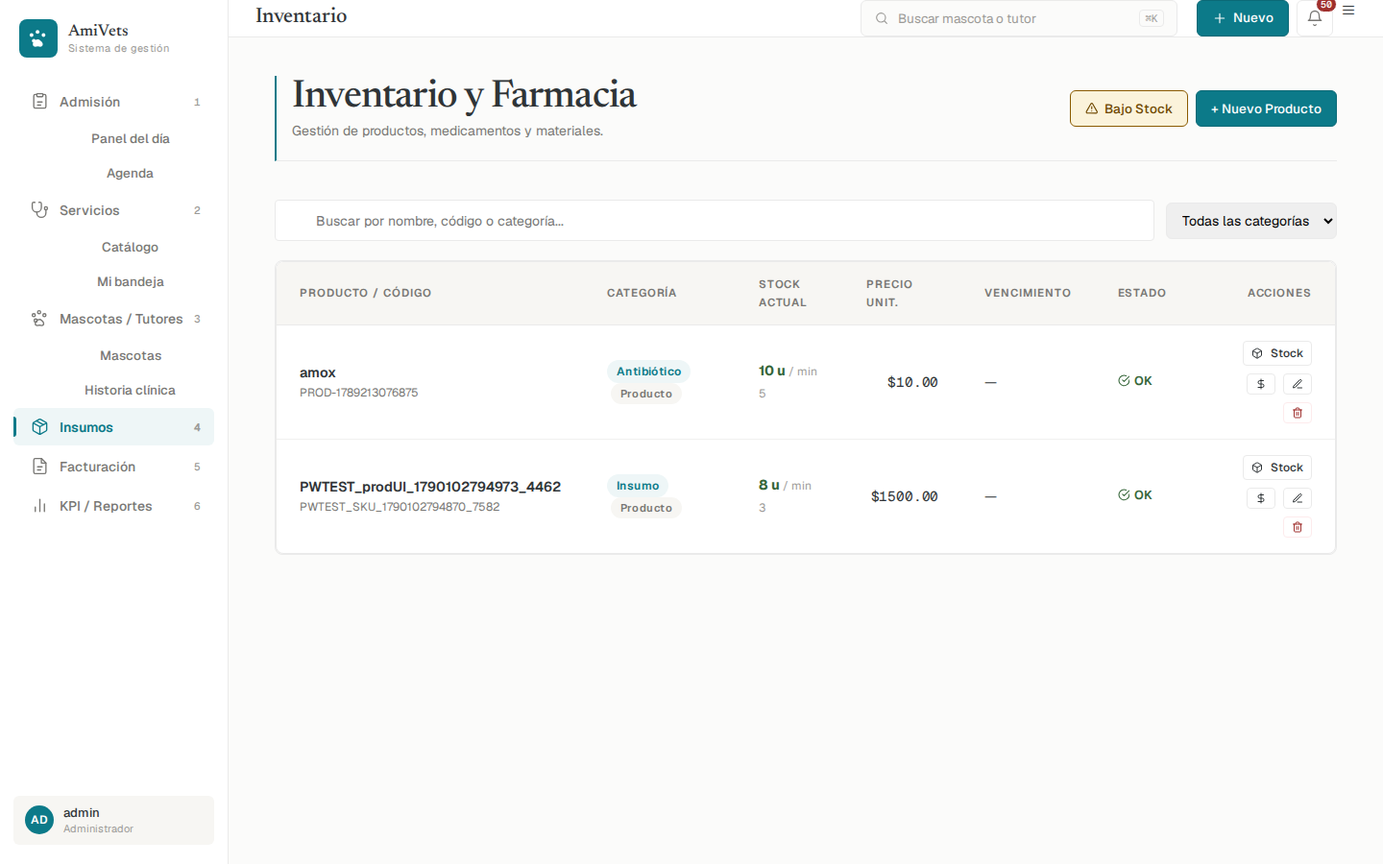
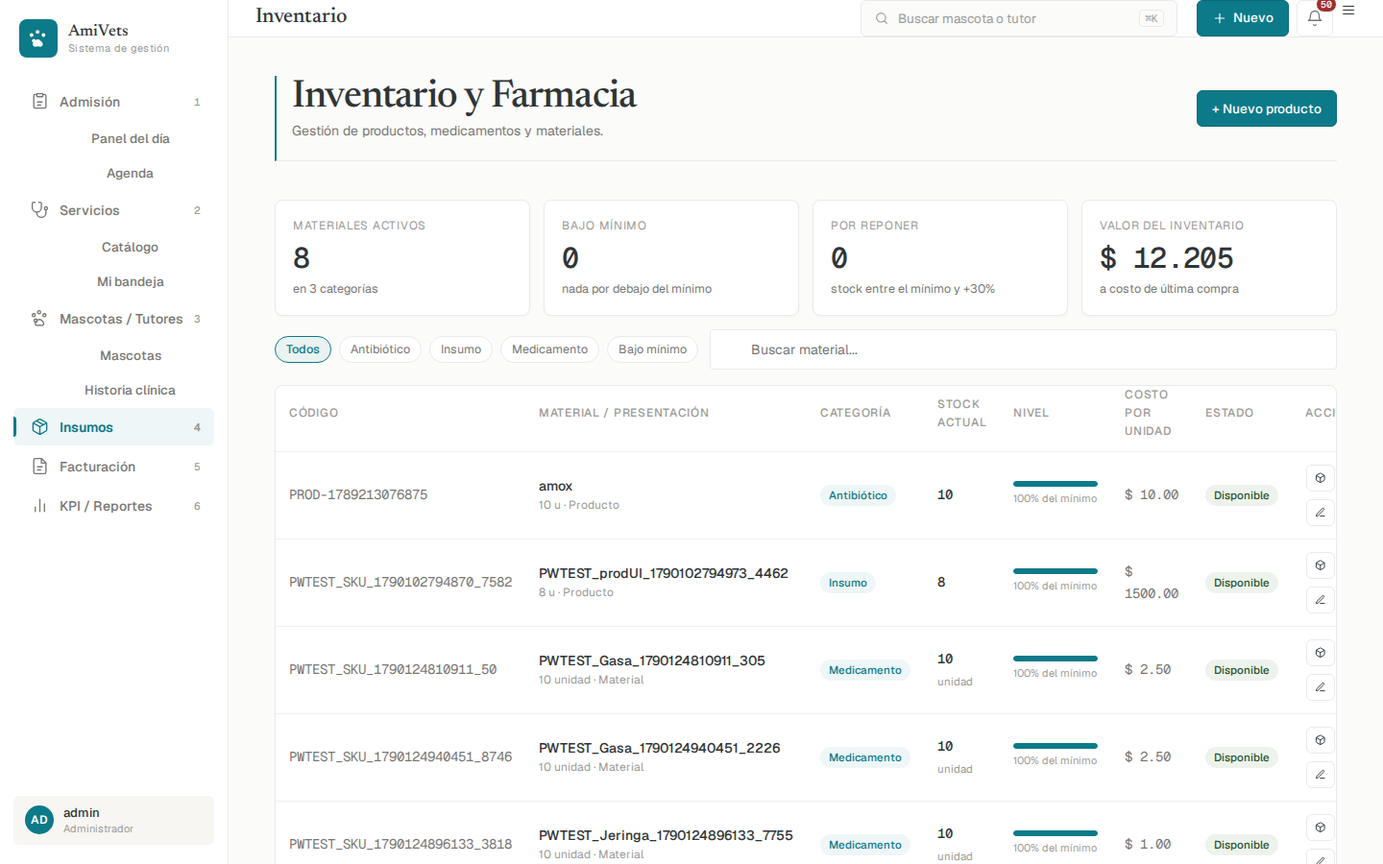
feat(inventario): fidelidad estructural real al boceto Insumos.html (KPI + pills + nivel)
Reemplaza la tabla plana de sec-inventario por la composición del
boceto: 4 KPI (materiales activos, bajo mínimo, por reponer, valor del
inventario), pills de categoría (generadas de las categorías reales
del inventario, no las ilustrativas del boceto -- mismo criterio que
/catalogo/categorias en Catálogo) con "Bajo mínimo" como pill
sintética, y una barra de "Nivel" por fila.

La barra de nivel muestra "% del mínimo" (stock_actual/stock_minimo),
no "% del máximo" como el boceto: InventarioResponse no tiene un campo
de stock objetivo/máximo, no se inventa uno (ver
docs/revision-integral-11.md, pendientes). "Por reponer" se define
como stock entre el mínimo y +30% (el propio boceto lo describe así:
"stock entre el mínimo y el 30%").

El botón "Bajo Stock" del header (app.js) duplicaba TODO el
renderizado de loadInventario inline, contra una tabla vieja de 7
columnas -- eliminado, reemplazado por la pill "Bajo mínimo" que
reusa el único renderer real.

e2e/gestion-inventario.spec.js: 5 tests existentes sin tocar (los
selectores por title= sobrevivieron al rediseño sin cambios). Test
nuevo: el KPI "Bajo mínimo" coincide con /alertas-stock y la pill
filtra la tabla por UI. 6/6 passed. inventario.spec.js,
inventario-fraccionado.spec.js e historial-precios.spec.js -- que
también tocan esta pantalla -- 30/31 passed (1 skip preexistente).

diff --git a/static/js/sections/inventario.js b/static/js/sections/inventario.js
@@ -49,16 +49,83 @@ if (document.readyState === 'loading') {
     wireMaterialToggles();
 }
 
+// Tarea 11 (revisión de bocetos): pill de categoría activa. '' = Todos;
+// '__bajo_minimo__' es la pill sintética que reemplaza al viejo botón
+// "Bajo Stock" (que duplicaba todo el renderizado en app.js contra una
+// tabla de 7 columnas que ya no existe).
+let categoriaActiva = '';
+let pillsWired = false;
+
+const esBajoMinimo = (p) => Number(p.stock_actual) <= Number(p.stock_minimo);
+// "Por reponer": entre el mínimo y un 30% por encima (boceto Insumos.html:
+// "stock entre el mínimo y el 30%"). No cuenta lo que ya está bajo mínimo.
+const esPorReponer = (p) => {
+    const actual = Number(p.stock_actual);
+    const minimo = Number(p.stock_minimo);
+    return actual > minimo && actual <= minimo * 1.3;
+};
+
+const renderPills = (productos) => {
+    const cont = document.getElementById('invCategoriaPills');
+    if (!cont) return;
+    const categorias = [...new Set(productos.map(p => p.categoria).filter(Boolean))].sort();
+    const pillHtml = (valor, etiqueta) =>
+        `<button type="button" class="rp-pill${valor === categoriaActiva ? ' rp-pill--active' : ''}" data-cat="${valor === '__bajo_minimo__' ? '__bajo_minimo__' : (valor || '')}">${etiqueta}</button>`;
+    cont.innerHTML = [
+        pillHtml('', 'Todos'),
+        ...categorias.map(c => pillHtml(c, c)),
+        pillHtml('__bajo_minimo__', 'Bajo mínimo'),
+    ].join('');
+    if (!pillsWired) {
+        cont.addEventListener('click', (e) => {
+            const btn = e.target.closest('.rp-pill');
+            if (!btn) return;
+            categoriaActiva = btn.dataset.cat;
+            loadInventario(document.getElementById('searchInventario')?.value || '');
+        });
+        pillsWired = true;
+    }
+};
+
+const renderKpis = (todos) => {
+    // GET /inventario/ ya filtra activo==True en el backend (sin parametro
+    // solo_activos) -- 'todos' acá ya es 'todos los activos', no hace falta
+    // volver a filtrar.
+    const activos = todos;
+    const categoriasActivas = new Set(activos.map(p => p.categoria).filter(Boolean));
+    const bajoMinimo = activos.filter(esBajoMinimo);
+    const porReponer = activos.filter(esPorReponer);
+    const valorInventario = activos.reduce((acc, p) => acc + Number(p.stock_actual) * (p.precio_unitario || 0), 0);
+
+    document.getElementById('invKpiActivos').textContent = activos.length.toLocaleString('es-AR');
+    document.getElementById('invKpiActivosSub').textContent = `en ${categoriasActivas.size} categoría${categoriasActivas.size === 1 ? '' : 's'}`;
+
+    document.getElementById('invKpiBajoMinimo').textContent = bajoMinimo.length.toLocaleString('es-AR');
+    document.getElementById('invKpiBajoMinimo').className = `rp-kpi-value${bajoMinimo.length > 0 ? ' rp-kpi-value--down' : ''}`;
+    document.getElementById('invKpiBajoMinimoSub').textContent = bajoMinimo.length === 1 ? bajoMinimo[0].nombre : (bajoMinimo.length === 0 ? 'nada por debajo del mínimo' : `${bajoMinimo.length} materiales`);
+
+    document.getElementById('invKpiPorReponer').textContent = porReponer.length.toLocaleString('es-AR');
+    document.getElementById('invKpiPorReponerSub').textContent = 'stock entre el mínimo y +30%';
+
+    document.getElementById('invKpiValor').textContent = `$ ${valorInventario.toLocaleString('es-AR', { maximumFractionDigits: 0 })}`;
+};
+
 export const loadInventario = async (filtro = '') => {
     const tbody = document.getElementById('inventarioTableBody');
-    tbody.innerHTML = '<tr><td colspan="7" style="text-align: center;">Cargando...</td></tr>';
+    tbody.innerHTML = '<tr><td colspan="8" style="text-align: center;">Cargando...</td></tr>';
 
     try {
-        const categoriaFiltro = document.getElementById('filtroInventarioCategoria')?.value || '';
-        const url = `/inventario/?limit=200${categoriaFiltro ? `&categoria=${encodeURIComponent(categoriaFiltro)}` : ''}`;
-        let productos = await fetchAPI(url);
+        const todos = await fetchAPI('/inventario/?limit=2000');
+        renderKpis(todos);
+        renderPills(todos);
 
-        // Filtro de texto local
+        let productos = todos;
+        if (categoriaActiva === '__bajo_minimo__') {
+            productos = productos.filter(esBajoMinimo);
+        } else if (categoriaActiva) {
+            productos = productos.filter(p => p.categoria === categoriaActiva);
+        }
+
         if (filtro) {
             const q = filtro.toLowerCase();
             productos = productos.filter(p =>
@@ -69,56 +136,58 @@ export const loadInventario = async (filtro = '') => {
         }
 
         if (productos.length === 0) {
-            tbody.innerHTML = '<tr><td colspan="7" style="text-align: center; padding: 2rem; color: var(--text-muted);">No se encontraron productos.</td></tr>';
+            tbody.innerHTML = '<tr><td colspan="8" style="text-align: center; padding: 2rem; color: var(--text-muted);">No se encontraron materiales.</td></tr>';
             return;
         }
 
         tbody.innerHTML = productos.map(p => {
             const stockActual = Number(p.stock_actual);
             const stockMinimo = Number(p.stock_minimo);
-            const bajStock = stockActual <= stockMinimo;
-            const stockColor = (bajStock || stockActual < 0) ? 'var(--accent)' : 'var(--secondary)';
-            const vencimiento = p.fecha_vencimiento ? new Date(p.fecha_vencimiento).toLocaleDateString() : '—';
-            const vencimientoStyle = p.fecha_vencimiento && new Date(p.fecha_vencimiento) < new Date() ? 'color:var(--accent); font-weight:700;' : '';
-            const tipoPill = p.tipo_item === 'MATERIAL'
-                ? `<span class="badge" style="background:var(--secondary-subtle); color:var(--secondary-dark); font-size:0.7rem; margin-left:4px;">Material</span>`
-                : `<span class="badge" style="background:var(--surface-hover); color:var(--text-secondary); font-size:0.7rem; margin-left:4px;">Producto</span>`;
+            const bajStock = esBajoMinimo(p);
+            const vencimiento = p.fecha_vencimiento ? new Date(p.fecha_vencimiento).toLocaleDateString() : null;
+            const vencido = vencimiento && new Date(p.fecha_vencimiento) < new Date();
+            // % sobre el mínimo (no "% del máximo" del boceto: no hay campo
+            // de stock objetivo/máximo en el modelo). Se tapa en 100% para
+            // que la barra no se salga del contenedor con stock muy alto.
+            const pctMinimo = stockMinimo > 0 ? Math.min(100, (stockActual / stockMinimo) * 100) : (stockActual > 0 ? 100 : 0);
+            const barColor = bajStock ? 'var(--accent)' : (esPorReponer(p) ? 'var(--warning)' : 'var(--primary)');
+            const tipoPill = p.tipo_item === 'MATERIAL' ? 'Material' : 'Producto';
             return `
             <tr>
+                <td class="rp-num" style="color:var(--text-secondary);">${p.codigo}</td>
                 <td>
-                    <div style="font-weight:600; color:var(--text-primary);">${p.nombre}</div>
-                    <div style="font-size:0.75rem; color:var(--text-secondary);">${p.codigo}</div>
+                    <div style="font-weight:500; color:var(--text-primary);">${p.nombre}</div>
+                    <div style="font-size:12px; color:var(--text-muted);">${formatStockDisplay(p)} · ${tipoPill}${vencimiento ? ` · vence ${vencimiento}` : ''}</div>
                 </td>
+                <td><span class="av-pill">${p.categoria || '—'}</span></td>
+                <td class="rp-num" style="font-weight:500;">${fmtNum(stockActual)} <span style="font-size:11.5px; color:var(--text-muted); font-weight:400;">${p.unidad_medida || ''}</span></td>
                 <td>
-                    <span class="badge" style="background:var(--primary-subtle); color:var(--primary); font-size:0.75rem;">${p.categoria || '—'}</span>
-                    ${tipoPill}
+                    <div class="rp-progress" style="width:88px;"><div class="rp-progress-fill" style="width:${pctMinimo.toFixed(0)}%; background:${barColor};"></div></div>
+                    <span style="font-size:11px; color:var(--text-muted);">${pctMinimo.toFixed(0)}% del mínimo</span>
                 </td>
-                <td style="font-weight:700; color:${stockColor}">
-                    ${formatStockDisplay(p)}
-                    <span style="font-size:0.75rem; font-weight:400; color:var(--text-muted);">/ min ${fmtNum(p.stock_minimo)}</span>
-                </td>
-                <td class="num">$${(p.precio_unitario || 0).toFixed(2)}</td>
-                <td style="${vencimientoStyle}">${vencimiento}</td>
+                <td class="rp-num" style="color:var(--text-secondary);">$ ${(p.precio_unitario || 0).toFixed(2)}</td>
                 <td>${bajStock
-                    ? `<span class="status-pill status-pill--warn">${ICONS.alertTriangle} Bajo</span>`
-                    : `<span class="status-pill status-pill--ok">${ICONS.checkCircle} OK</span>`}</td>
+                    ? `<span class="av-pill av-pill--warn">Bajo mínimo</span>`
+                    : (vencido ? `<span class="av-pill av-pill--warn">Vencido</span>` : `<span class="av-pill av-pill--ok">Disponible</span>`)}</td>
                 <td style="text-align:right;">
                     <div class="row-actions">
-                        <button class="btn-secondary btn-sm" onclick="abrirMovimientoStock(${p.id}, '${p.nombre.replace(/'/g, "\\'")}', ${stockActual})" title="Ajustar stock" aria-label="Ajustar stock" style="font-size:0.75rem; padding:4px 8px;">${ICONS.box} Stock</button>
-                        <button class="btn-secondary btn-sm btn-historial-precios" onclick="abrirHistorialProducto(${p.id}, '${p.nombre.replace(/'/g, "\\'")}')" title="Historial de precios" aria-label="Historial de precios" style="font-size:0.75rem; padding:4px 8px;">${ICONS.dollar}</button>
-                        <button class="btn-secondary btn-sm" onclick="abrirEditarProducto(${p.id})" title="Editar" aria-label="Editar" style="font-size:0.75rem; padding:4px 8px;">${ICONS.edit}</button>
-                        <button class="btn-secondary btn-sm btn-row-danger" onclick="confirmarEliminarProducto(${p.id}, '${p.nombre.replace(/'/g, "\\'")}')" title="Desactivar" aria-label="Desactivar" style="font-size:0.75rem; padding:4px 8px;">${ICONS.trash}</button>
+                        <button class="av-btn" style="height:28px; padding:0 8px; font-size:11.5px;" onclick="abrirMovimientoStock(${p.id}, '${p.nombre.replace(/'/g, "\\'")}', ${stockActual})" title="Ajustar stock" aria-label="Ajustar stock">${ICONS.box}</button>
+                        <button class="av-btn btn-historial-precios" style="height:28px; padding:0 8px; font-size:11.5px;" onclick="abrirHistorialProducto(${p.id}, '${p.nombre.replace(/'/g, "\\'")}')" title="Historial de precios" aria-label="Historial de precios">${ICONS.dollar}</button>
+                        <button class="av-btn" style="height:28px; padding:0 8px; font-size:11.5px;" onclick="abrirEditarProducto(${p.id})" title="Editar" aria-label="Editar">${ICONS.edit}</button>
+                        <button class="av-btn" style="height:28px; padding:0 8px; font-size:11.5px; color:var(--accent); border-color:var(--accent);" onclick="confirmarEliminarProducto(${p.id}, '${p.nombre.replace(/'/g, "\\'")}')" title="Desactivar" aria-label="Desactivar">${ICONS.trash}</button>
                     </div>
                 </td>
             </tr>`;
         }).join('');
 
-        // Actualizar badge (comparación numérica decimal-safe)
-        const lowStock = productos.filter(p => Number(p.stock_actual) <= Number(p.stock_minimo)).length;
-        document.getElementById('badgeStock').textContent = lowStock > 0 ? lowStock : '';
+        const badge = document.getElementById('badgeStock');
+        if (badge) {
+            const lowStock = todos.filter(p => p.activo && esBajoMinimo(p)).length;
+            badge.textContent = lowStock > 0 ? lowStock : '';
+        }
 
     } catch (error) {
-        tbody.innerHTML = `<tr><td colspan="7" style="text-align: center; color:var(--accent);">Error: ${error.message}</td></tr>`;
+        tbody.innerHTML = `<tr><td colspan="8" style="text-align: center; color:var(--accent);">Error: ${error.message}</td></tr>`;
     }
 };
 

diff --git a/static/templates/index.html b/static/templates/index.html
@@ -1579,6 +1579,16 @@
             </section>
 
             <!-- Content Area: Inventario -->
+            <!-- sec-inventario — Tarea 11 (revisión de bocetos): reescrita
+                 fiel a docs/diseno/pantallas/Insumos.html (KPI + pills de
+                 categoría + nivel de stock). Las categorías del boceto
+                 (Medicamentos/Consumibles/...) son ilustrativas -- las
+                 pills acá salen de las categorías reales del inventario
+                 (igual criterio que /catalogo/categorias en Catálogo), no
+                 se hardcodean. La barra "Nivel" muestra % sobre el stock
+                 MÍNIMO, no un "% del máximo" -- InventarioResponse no tiene
+                 un campo de stock máximo/objetivo (ver
+                 docs/revision-integral-11.md, pendientes). -->
             <section id="sec-inventario" class="content-area spa-section">
                 <div class="content-header" style="flex-wrap:wrap; gap:0.75rem;">
                     <div>
@@ -1586,44 +1596,56 @@
                         <p style="color:var(--text-secondary); font-size:0.875rem; margin:0;">Gestión de productos, medicamentos y materiales.</p>
                     </div>
                     <div style="display:flex; gap:0.5rem; flex-wrap:wrap; align-items:center;">
-                        <button class="av-btn" id="btnAlertasStock" style="color:var(--warning-dark); border-color:var(--warning); background:var(--warning-subtle);"><svg class="inline-icon" viewBox="0 0 24 24" fill="none" stroke="currentColor" stroke-width="2" stroke-linecap="round" stroke-linejoin="round" aria-hidden="true"><path d="m21.73 18-8-14a2 2 0 0 0-3.48 0l-8 14A2 2 0 0 0 4 21h16a2 2 0 0 0 1.73-3Z"/><path d="M12 9v4"/><path d="M12 17h.01"/></svg> Bajo Stock</button>
-                        <button class="av-btn av-btn--primary" id="btnNuevoProducto">+ Nuevo Producto</button>
+                        <button class="av-btn av-btn--primary" id="btnNuevoProducto">+ Nuevo producto</button>
                     </div>
                 </div>
 
-                <!-- Barra de búsqueda y filtro -->
-                <div style="display:flex; gap:0.75rem; align-items:center; margin-bottom:1.25rem; flex-wrap:wrap;">
-                    <input type="text" id="searchInventario" placeholder="Buscar por nombre, código o categoría..."
-                        class="search-input" style="flex:1; min-width:200px; margin:0;">
-                    <select id="filtroInventarioCategoria"
-                        style="padding:0.5rem 0.75rem; border:1px solid var(--border); border-radius:var(--radius-md); font-size:0.875rem; min-width:160px;">
-                        <option value="">Todas las categorías</option>
-                        <option value="Antibiótico">Antibiótico</option>
-                        <option value="Antiinflamatorio">Antiinflamatorio</option>
-                        <option value="Vacuna">Vacuna</option>
-                        <option value="Desparasitante">Desparasitante</option>
-                        <option value="Insumo">Insumo</option>
-                        <option value="Alimento">Alimento</option>
-                        <option value="Laboratorio">Laboratorio</option>
-                        <option value="Imagen">Imagen</option>
-                    </select>
+                <div class="rp-kpi-grid" id="invKpis" style="margin-bottom:14px;">
+                    <div class="rp-kpi-card">
+                        <span class="rp-kpi-label">Materiales activos</span>
+                        <span class="rp-kpi-value" id="invKpiActivos">—</span>
+                        <span class="rp-kpi-delta" id="invKpiActivosSub"></span>
+                    </div>
+                    <div class="rp-kpi-card">
+                        <span class="rp-kpi-label">Bajo mínimo</span>
+                        <span class="rp-kpi-value" id="invKpiBajoMinimo">—</span>
+                        <span class="rp-kpi-delta" id="invKpiBajoMinimoSub"></span>
+                    </div>
+                    <div class="rp-kpi-card">
+                        <span class="rp-kpi-label">Por reponer</span>
+                        <span class="rp-kpi-value" id="invKpiPorReponer">—</span>
+                        <span class="rp-kpi-delta" id="invKpiPorReponerSub"></span>
+                    </div>
+                    <div class="rp-kpi-card">
+                        <span class="rp-kpi-label">Valor del inventario</span>
+                        <span class="rp-kpi-value" id="invKpiValor">—</span>
+                        <span class="rp-kpi-delta">a costo de última compra</span>
+                    </div>
                 </div>
 
-                <div style="overflow-x:auto; border-radius:var(--radius-lg); border:1px solid var(--border);">
-                    <table class="consultas-table" style="margin:0;">
+                <div class="cat-toolbar">
+                    <div class="rp-pill-group" id="invCategoriaPills">
+                        <button type="button" class="rp-pill rp-pill--active" data-cat="">Todos</button>
+                    </div>
+                    <input type="text" id="searchInventario" placeholder="Buscar material..." class="search-input" style="flex:1; min-width:180px; margin:0;">
+                </div>
+
+                <div style="overflow-x:auto; border-radius:8px; border:1px solid var(--border); box-shadow:0 1px 2px rgba(0,0,0,0.03);">
+                    <table class="rp-table" style="margin:0; background:var(--surface);">
                         <thead>
                             <tr>
-                                <th>Producto / Código</th>
+                                <th>Código</th>
+                                <th>Material / Presentación</th>
                                 <th>Categoría</th>
-                                <th>Stock Actual</th>
-                                <th>Precio Unit.</th>
-                                <th>Vencimiento</th>
+                                <th>Stock actual</th>
+                                <th>Nivel</th>
+                                <th>Costo por unidad</th>
                                 <th>Estado</th>
                                 <th style="text-align:right;">Acciones</th>
                             </tr>
                         </thead>
                         <tbody id="inventarioTableBody">
-                            <tr><td colspan="7" style="text-align:center; padding:2rem; color:var(--text-muted);">Cargando inventario...</td></tr>
+                            <tr><td colspan="8" style="text-align:center; padding:2rem; color:var(--text-muted);">Cargando inventario...</td></tr>
                         </tbody>
                     </table>
                 </div>

diff --git a/static/js/app.js b/static/js/app.js
@@ -13,7 +13,7 @@
 // cargado antes (expone window.logout, usado por core/api.js).
 
 import { fetchAPI } from './core/api.js';
-import { ICONS, openModal, closeModal, debounce, showNotification } from './core/ui.js';
+import { openModal, closeModal, debounce, showNotification } from './core/ui.js';
 import { initSearchableSelect } from './core/select.js';
 import { initSession } from './core/session.js';
 import * as router from './core/router.js';
@@ -202,39 +202,10 @@ document.addEventListener('DOMContentLoaded', () => {
     document.getElementById('formMovimientoStock')?.addEventListener('submit', inventario.handleMovimientoStockSubmit);
     document.getElementById('btnNuevoProducto')?.addEventListener('click', () => openModal('modalProducto'));
     document.getElementById('searchInventario')?.addEventListener('input', debounce((e) => inventario.loadInventario(e.target.value), 300));
-    document.getElementById('filtroInventarioCategoria')?.addEventListener('change', () => inventario.loadInventario(document.getElementById('searchInventario')?.value || ''));
-    document.getElementById('btnAlertasStock')?.addEventListener('click', async () => {
-        const tbody = document.getElementById('inventarioTableBody');
-        tbody.innerHTML = '<tr><td colspan="7" style="text-align:center;">Cargando alertas de stock...</td></tr>';
-        try {
-            const productos = await fetchAPI('/inventario/?bajo_stock=true&limit=200');
-            if (productos.length === 0) {
-                tbody.innerHTML = '<tr><td colspan="7" style="text-align:center; color:var(--secondary); padding:2rem;">Todo el inventario está por encima del stock mínimo.</td></tr>';
-                return;
-            }
-            // Reusar el renderizado de loadInventario temporalmente
-            const bajStock = true;
-            tbody.innerHTML = productos.map(p => {
-                const vencimiento = p.fecha_vencimiento ? new Date(p.fecha_vencimiento).toLocaleDateString() : '—';
-                const vencimientoStyle = p.fecha_vencimiento && new Date(p.fecha_vencimiento) < new Date() ? 'color:var(--accent); font-weight:700;' : '';
-                return `
-                <tr style="background:var(--accent-subtle);">
-                    <td>
-                        <div style="font-weight:600; color:var(--text-primary);">${p.nombre}</div>
-                        <div style="font-size:0.75rem; color:var(--text-secondary);">${p.codigo}</div>
-                    </td>
-                    <td><span class="badge" style="background:var(--primary-subtle); color:var(--primary); font-size:0.75rem;">${p.categoria || '—'}</span></td>
-                    <td style="font-weight:700; color:var(--accent);">${p.stock_actual} <span style="font-size:0.75rem; font-weight:400; color:var(--text-muted);">/ min ${p.stock_minimo}</span></td>
-                    <td class="num">$${(p.precio_unitario || 0).toFixed(2)}</td>
-                    <td style="${vencimientoStyle}">${vencimiento}</td>
-                    <td><span class="status-pill status-pill--warn">${ICONS.alertTriangle} BAJO</span></td>
-                    <td style="text-align:right;">
-                        <button class="btn-secondary btn-sm" onclick="abrirMovimientoStock(${p.id}, '${p.nombre.replace(/'/g, "\\'")}', ${p.stock_actual})" style="font-size:0.75rem; padding:4px 8px;">${ICONS.box} Reponer</button>
-                    </td>
-                </tr>`;
-            }).join('');
-        } catch (err) { alert('Error: ' + err.message); }
-    });
+    // Tarea 11: el botón "Bajo Stock" (que duplicaba todo el renderizado de
+    // loadInventario inline, contra una tabla vieja de 7 columnas) se
+    // reemplaza por la pill "Bajo mínimo" de la propia sec-inventario --
+    // mismo filtro, un solo renderer (inventario.js::loadInventario).
     document.getElementById('btnShowModalUser')?.addEventListener('click', () => openModal('modalNuevoUsuario'));
     document.getElementById('formNuevoUsuario')?.addEventListener('submit', usuarios.handleNuevoUsuarioSubmit);
     document.getElementById('formEditarUsuario')?.addEventListener('submit', usuarios.handleEditarUsuarioSubmit);

diff --git a/e2e/gestion-inventario.spec.js b/e2e/gestion-inventario.spec.js
@@ -143,6 +143,29 @@ test.describe.serial('Gestión de inventario — huecos no cubiertos por inventa
     }
   });
 
+  // Tarea 11 (revisión de bocetos, fidelidad estructural a Insumos.html):
+  // KPI de "Bajo mínimo" y la pill homónima, que reemplazó al viejo botón
+  // "Bajo Stock" (duplicaba el renderizado completo en app.js).
+  test('KPI "Bajo mínimo" cuenta lo mismo que /alertas-stock, y la pill "Bajo mínimo" filtra la tabla', async ({ page, request }) => {
+    const lowProd = await createTestProduct(request, { stock_actual: 1, stock_minimo: 20, precio_unitario: 5, nombre: testTag('BajoMin') });
+    const okProd = await createTestProduct(request, { stock_actual: 80, stock_minimo: 5, precio_unitario: 5, nombre: testTag('BienSurtido') });
+
+    try {
+      const alertas = await (await request.get('/api/inventario/alertas-stock', { headers: authHeaders(S.token) })).json();
+
+      await loginAsAdmin(page);
+      await gotoSection(page, 'sec-inventario');
+      await expect(page.locator('#invKpiBajoMinimo')).toHaveText(String(alertas.length), { timeout: 10000 });
+
+      await page.click('#invCategoriaPills .rp-pill:has-text("Bajo mínimo")');
+      await expect(page.locator('#inventarioTableBody')).toContainText(lowProd.nombre, { timeout: 5000 });
+      await expect(page.locator('#inventarioTableBody')).not.toContainText(okProd.nombre);
+    } finally {
+      await deleteTestProduct(request, lowProd.id);
+      await deleteTestProduct(request, okProd.id);
+    }
+  });
+
   test('baja por UI: confirmarEliminarProducto desactiva el producto (borrado lógico)', async ({ page, request }) => {
     page.on('dialog', (d) => d.accept()); // confirmarEliminarProducto pide confirm()
 
